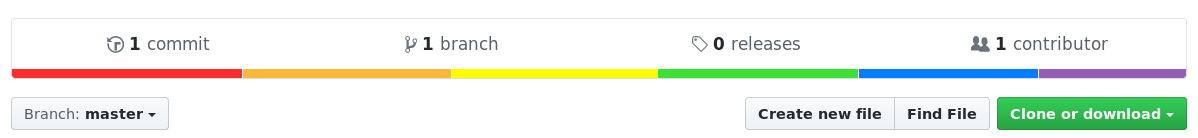
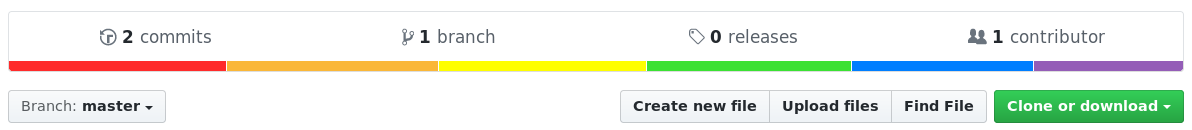
Changing screenshot and linking to other pride flag projects

diff --git a/README.md b/README.md
@@ -4,3 +4,10 @@ Just in case github changes any of the colours,
 this is what it's supposed to look like:
 
 ![](shot.png)
+
+## Similar projects
+
+This repository has inspired various other pride flags ❤
+
+- https://github.com/ticky/trans
+- https://github.com/alexwlchan/asexual
